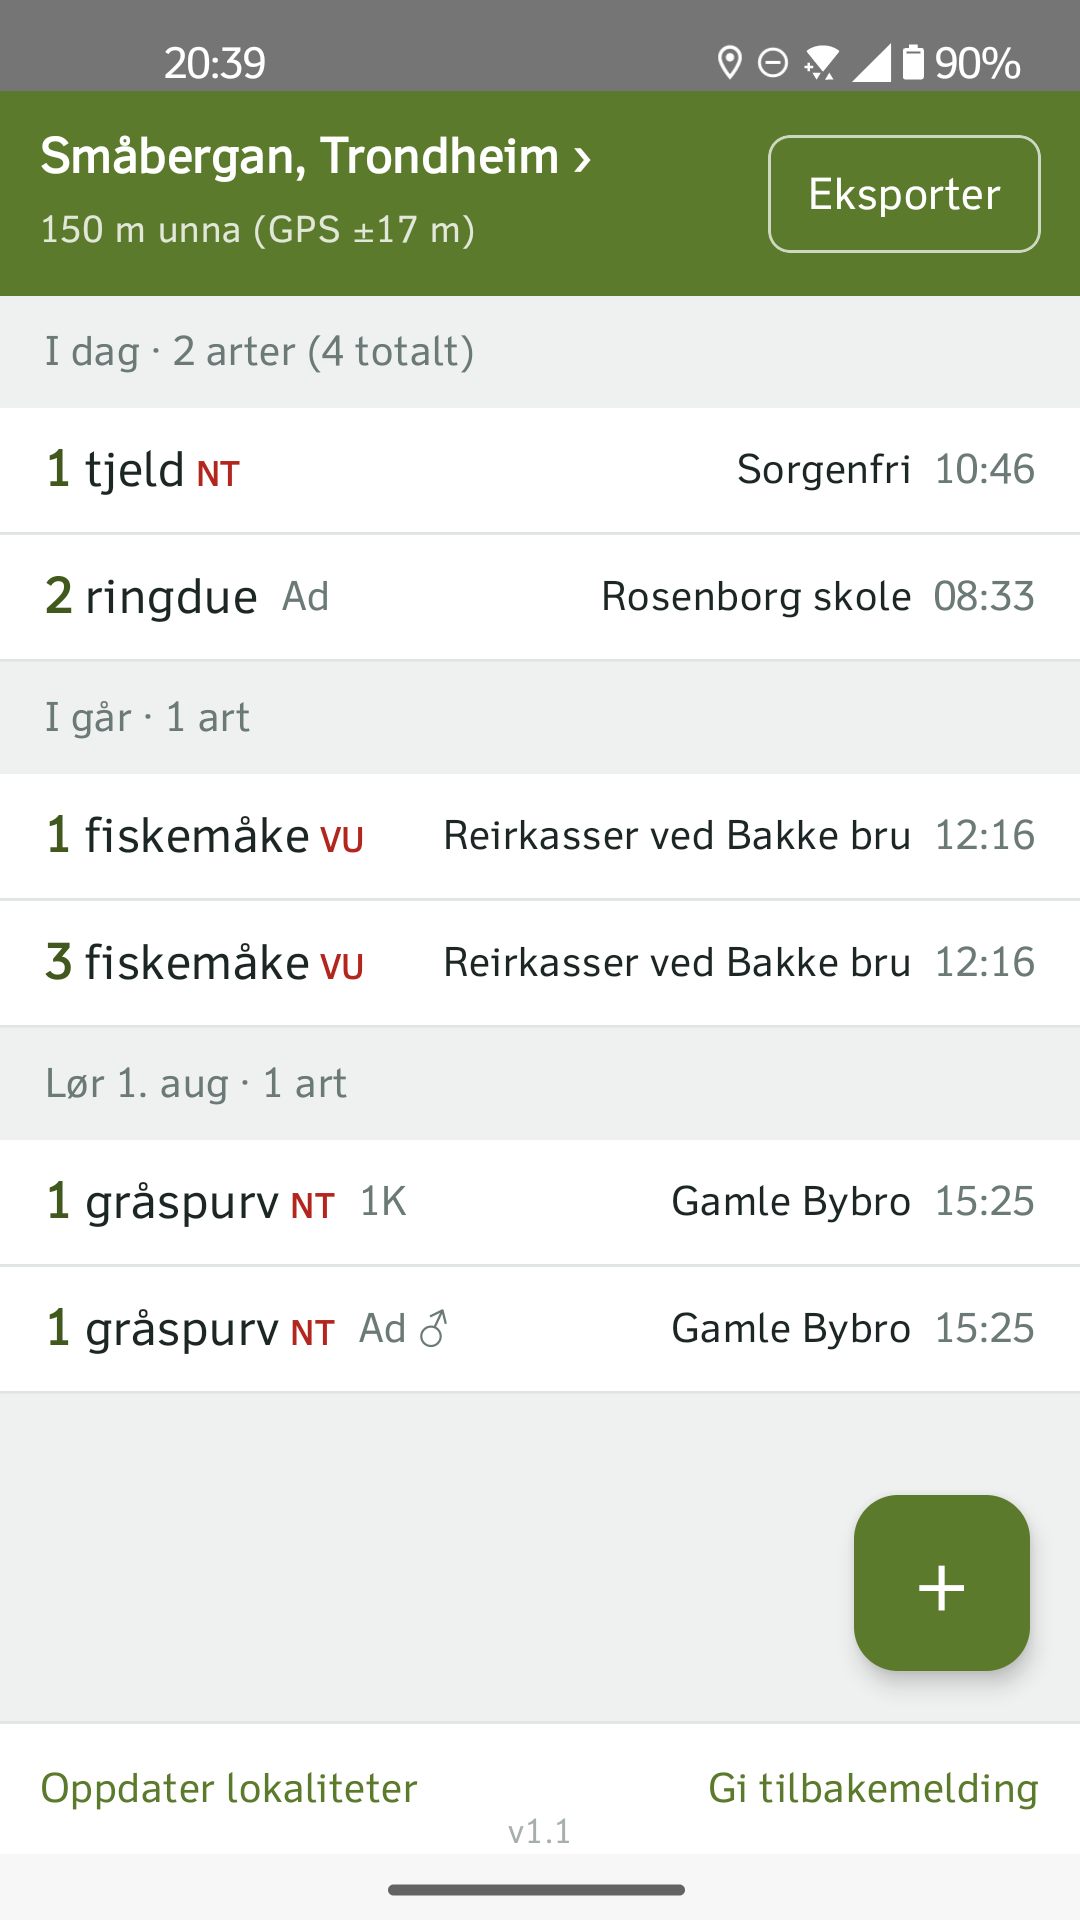
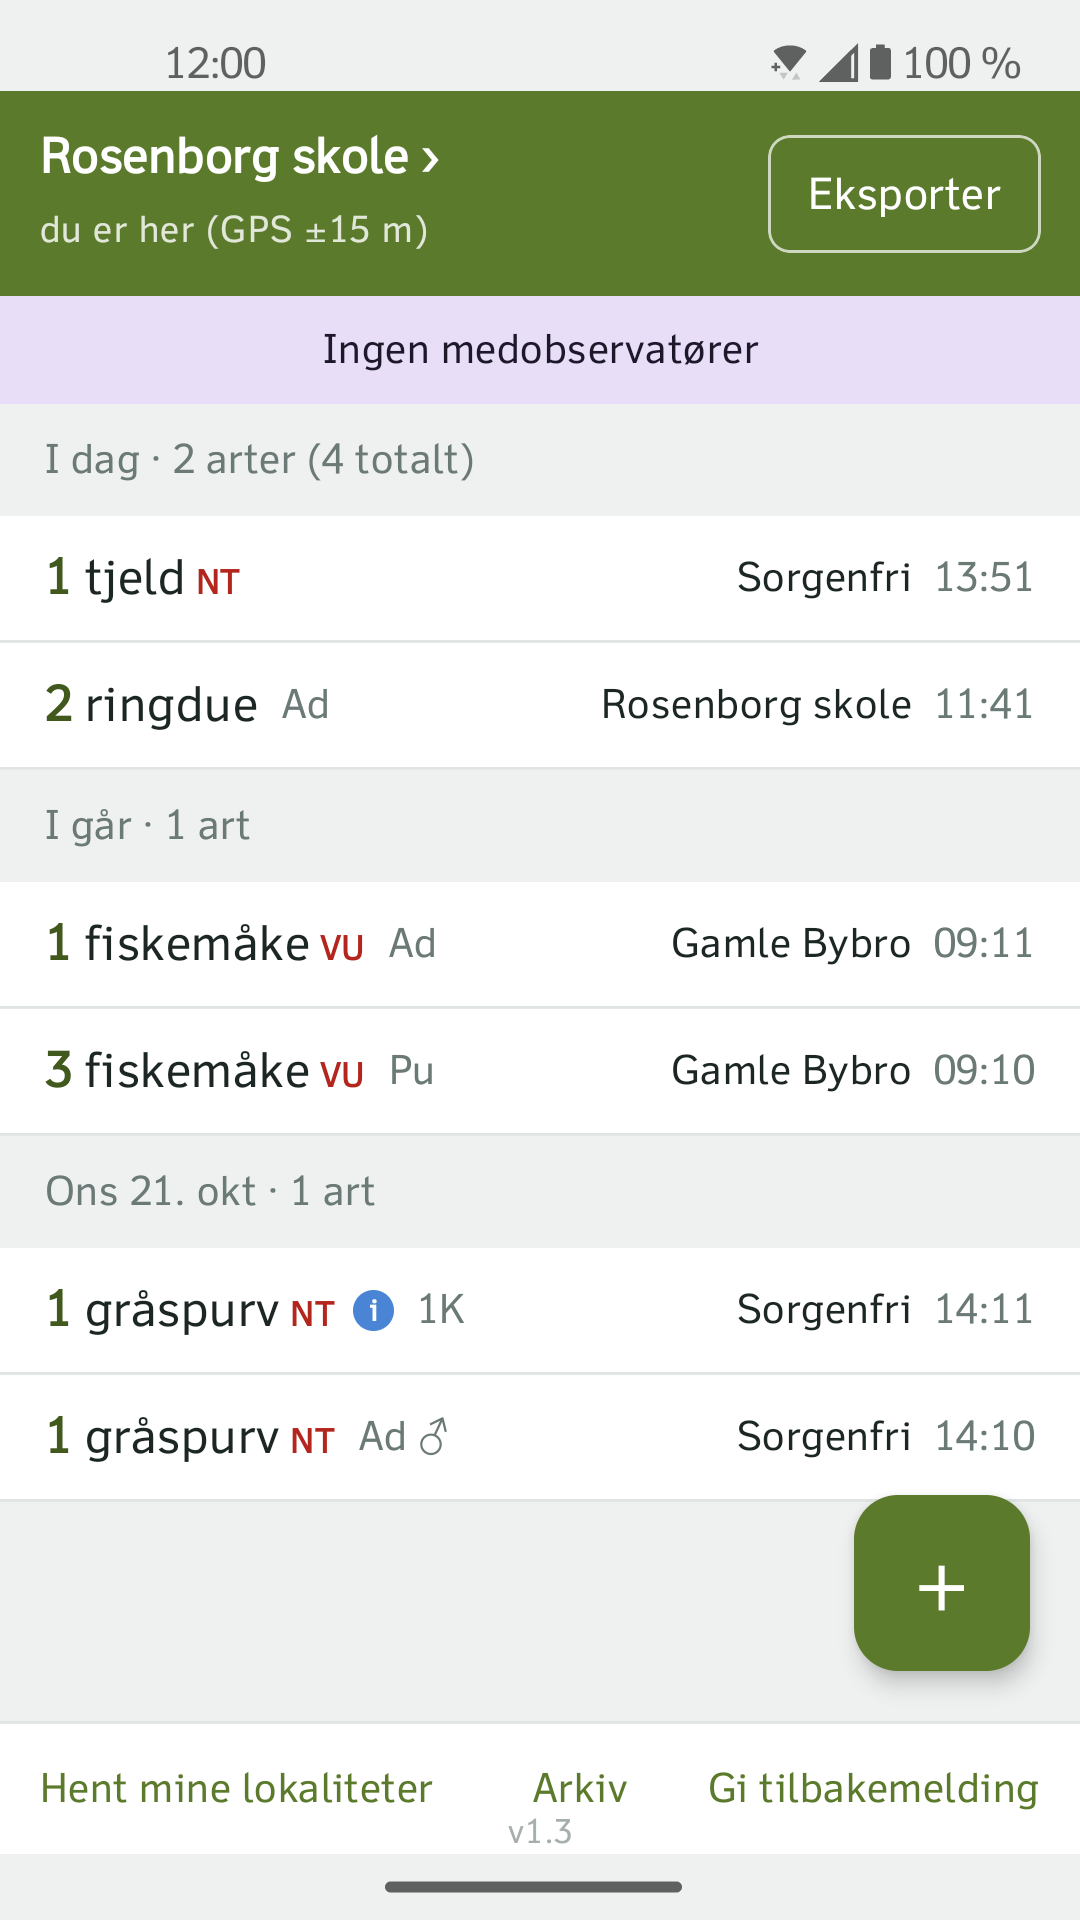
Automate the store screenshots
The screenshots were taken by hand, so refreshing them meant redoing the
wm size, seeding and screencap steps from memory. `just screenshots` now
does it in one run: it clears the dev app, seeds a showcase set of notes,
drives the five screens by finding buttons by text in a uiautomator dump,
and writes the PNGs into fastlane. Status bar demo mode keeps the clock,
battery and notifications identical between runs.

Clearing the dev app makes every run start from default settings, so a
changed name language or learned search ranking on the dev install can't
leak into the store images. -Pscreenshots makes the dev footer show just
the last tag instead of the git describe string and branch.

Also refresh the screenshots with the result.

diff --git a/scripts/dev/screenshots.py b/scripts/dev/screenshots.py
@@ -1,0 +1,180 @@
+#!/usr/bin/env python3
+"""Capture the store screenshots from the dev build on an attached phone, straight into fastlane's
+phoneScreenshots/. Run via `just screenshots`, which first installs a dev build that shows the
+release version string in the list footer.
+
+Clears the dev app's data, so every run starts from the default settings (Latin as the second
+species name, no learned search ranking), then seeds a small showcase set of notes. The list header
+and the editor's distance come from live GPS, so run it somewhere you're happy to show.
+
+Captures at 1080x1920 (`wm size`) so one set serves both stores: Play rejects the phone's native
+9:20 ratio. `screencap` gives lossless PNG; the phone's screenshot button saves JPEG with ringing
+around text. Status bar demo mode fixes the clock and battery and hides notifications. The script
+finds buttons by their text in a `uiautomator dump`, so it survives layout changes.
+"""
+
+import json
+import re
+import subprocess
+import sys
+import tempfile
+import time
+import xml.etree.ElementTree as ET
+from pathlib import Path
+
+from make_sample_notes import DAY, MINUTE, build, note
+
+# Never the release app: this clears its data.
+APP = "io.github.mortenfyhn.feltbok.debug"
+ACTIVITY = f"{APP}/io.github.mortenfyhn.feltbok.MainActivity"
+OUT = (
+    Path(__file__).resolve().parents[2]
+    / "fastlane/metadata/android/en-US/images/phoneScreenshots"
+)
+
+TJELD = ("tjeld", "Haematopus ostralegus", "NT")
+RINGDUE = ("ringdue", "Columba palumbus", "")
+FISKEMAAKE = ("fiskemåke", "Larus canus", "VU")
+GRAASPURV = ("gråspurv", "Passer domesticus", "NT")
+
+# What a real day in the field looks like: a few species over three days, a near-duplicate pair.
+SHOWCASE = [
+    note("", 20, TJELD, 1, "", "", "Rastende", "Sorgenfri"),
+    note("", 150, RINGDUE, 2, "Adult", "", "", "Rosenborg skole"),
+    note(
+        "", DAY // MINUTE + 300, FISKEMAAKE, 1, "Adult", "", "Rastende", "Gamle Bybro"
+    ),
+    note("", DAY // MINUTE + 301, FISKEMAAKE, 3, "Pulli", "", "", "Gamle Bybro"),
+    note(
+        "",
+        3 * DAY // MINUTE,
+        GRAASPURV,
+        1,
+        "1K",
+        "",
+        "",
+        "Sorgenfri",
+        pub="Mat til unger",
+    ),
+    note("", 3 * DAY // MINUTE + 1, GRAASPURV, 1, "Adult", "Hann", "", "Sorgenfri"),
+]
+
+
+def adb(*args):
+    return subprocess.run(["adb", *args], check=True, capture_output=True).stdout
+
+
+def shell(cmd):
+    return adb("shell", cmd).decode()
+
+
+def demo(command, **extras):
+    args = "".join(f" -e {k} {v}" for k, v in extras.items())
+    shell(f"am broadcast -a com.android.systemui.demo -e command {command}{args}")
+
+
+def find(text, timeout=10):
+    """The first on-screen node whose text or content description is `text`, or contains it as a
+    whole word (a list row reads "1 tjeld NT")."""
+    word = re.compile(rf"(?<!\w){re.escape(text)}(?!\w)")
+    end = time.monotonic() + timeout
+    while time.monotonic() < end:
+        # The dump fails while the UI keeps animating; just retry.
+        if "dumped" in shell("uiautomator dump /sdcard/feltbok-ui.xml 2>&1"):
+            root = ET.fromstring(adb("exec-out", "cat", "/sdcard/feltbok-ui.xml"))
+            for n in root.iter("node"):
+                if any(word.search(n.get(a, "")) for a in ("text", "content-desc")):
+                    return n
+        time.sleep(0.5)
+    sys.exit(f"Timed out waiting for {text!r} on screen")
+
+
+def tap(text):
+    x1, y1, x2, y2 = map(int, re.findall(r"\d+", find(text).get("bounds")))
+    shell(f"input tap {(x1 + x2) // 2} {(y1 + y2) // 2}")
+
+
+def back():
+    shell("input keyevent KEYCODE_BACK")
+
+
+def capture(name):
+    """Save the screen once two captures a second apart match, so map tiles and transitions finish."""
+    prev = None
+    for _ in range(15):
+        png = adb("exec-out", "screencap", "-p")
+        if png == prev:
+            break
+        prev = png
+        time.sleep(1)
+    (OUT / f"{name}.png").write_bytes(png)
+    print(f"wrote {name}.png")
+
+
+def seed():
+    shell(f"pm clear {APP}")
+    for perm in ("ACCESS_FINE_LOCATION", "ACCESS_COARSE_LOCATION"):
+        shell(f"pm grant {APP} android.permission.{perm}")
+    # The clear also deletes the external files dir; one launch lets the app recreate it as its own.
+    shell(f"am start -n {ACTIVITY}")
+    find("Arkiv")  # an empty list has no Eksporter button
+    shell(f"am force-stop {APP}")
+    with tempfile.NamedTemporaryFile("w", suffix=".json") as f:
+        json.dump(build(int(time.time() * 1000), SHOWCASE), f, ensure_ascii=False)
+        f.flush()
+        adb("push", f.name, f"/sdcard/Android/data/{APP}/files/seed-notes.json")
+
+
+def shoot():
+    shell(f"am start -n {ACTIVITY}")
+    find("Eksporter")
+    capture("1")
+
+    tap("+")
+    shell("input text f")
+    find("fiskemåke")
+    if "mInputShown=true" in shell("dumpsys input_method"):
+        back()  # hide the keyboard
+    capture("3")
+    back()
+
+    tap("tjeld")
+    find("Lagre")
+    capture("4")
+
+    tap("Lokalitet")
+    find("Velg lokalitet")
+    capture("2")
+    back()
+    back()
+
+    tap("Eksporter")
+    find("Kopier observasjoner")
+    capture("5")
+    back()
+
+
+def main():
+    seed()
+    demo_allowed = shell("settings get global sysui_demo_allowed").strip()
+    shell("wm size 1080x1920")
+    try:
+        shell("settings put global sysui_demo_allowed 1")
+        demo("enter")
+        demo("clock", hhmm="1200")
+        demo("battery", level="100", plugged="false")
+        demo("network", wifi="show", level="4", fully="true")
+        demo("network", mobile="show", datatype="none", level="4", fully="true")
+        demo("notifications", visible="false")
+        shoot()
+    finally:
+        demo("exit")
+        if demo_allowed == "null":
+            shell("settings delete global sysui_demo_allowed")
+        else:
+            shell(f"settings put global sysui_demo_allowed {demo_allowed}")
+        shell("wm size reset")
+
+
+if __name__ == "__main__":
+    main()

diff --git a/scripts/dev/make_sample_notes.py b/scripts/dev/make_sample_notes.py
@@ -485,9 +485,9 @@ ROWS = [
 ]
 
 
-def build(now_ms):
+def build(now_ms, rows=ROWS):
     notes = []
-    for i, r in enumerate(ROWS):
+    for i, r in enumerate(rows):
         sp, latin, _status = r["species"]
         t = now_ms - r["mins"] * MINUTE
         new_loc = r["new_loc"]
